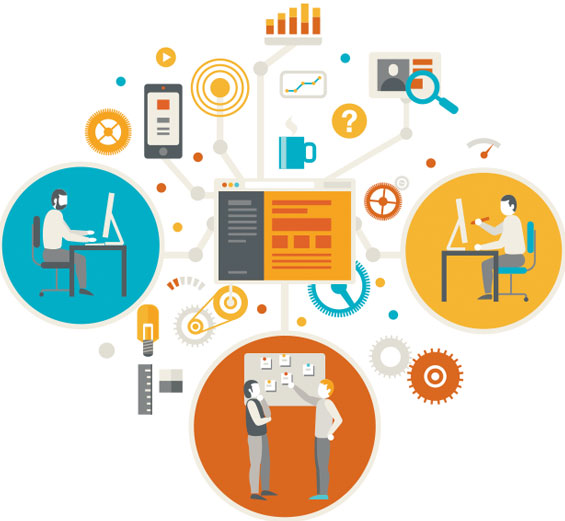
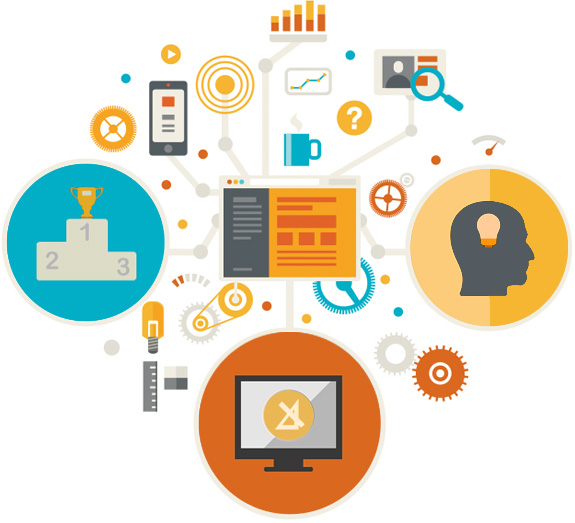
additional about page content tweaks and imagery

diff --git a/_sass/_style.scss b/_sass/_style.scss
@@ -217,7 +217,7 @@
     }
 
     img {
-        margin: 5em 0 0 5em;
+        margin: 1em 0 0 5em;
     }
 
     article:first-of-type {

diff --git a/about.md b/about.md
@@ -16,15 +16,15 @@ permalink: /about/
         <h2>Our Mission</h2>
         <h4>Value our clients, put people first</h4>
         <p>
-            Lorem ipsum dolor sit amet, consectetur adipiscing elit. Quisque consequat, sem id ullamcorper dapibus, mauris arcu consectetur sapien, nec rhoncus felis arcu posuere magna
+            Our focus is to support and understand what drives you. We do this by eliminating the background noise to discover new answers.
         </p>
         <h4>Challenge each other to do our best</h4>
         <p>
-            Lorem ipsum dolor sit amet, consectetur adipiscing elit. Quisque consequat, sem id ullamcorper dapibus, mauris arcu consectetur sapien, nec rhoncus felis arcu posuere magna
+            Obstacles are no match when we collaborate, learn, and having fun together - pushing each other to new and interesting frontiers.
         </p>
-        <h4>Build products to help people live better.</h4>
+        <h4>Build solutions to help people live better.</h4>
         <p>
-            Lorem ipsum dolor sit amet, consectetur adipiscing elit. Quisque consequat, sem id ullamcorper dapibus, mauris arcu consectetur sapien, nec rhoncus felis arcu posuere magna
+            We create lasting waves that simplify your work, both today and in the future, so you can get away from your desk and back into the action.
         </p>
     </article>
     <article>
